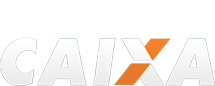
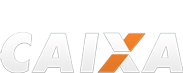
mudanas

diff --git a/garda/css/style.css b/garda/css/style.css
@@ -180,7 +180,7 @@ body{
 	padding-left: 0.7em;
 }
 .nav-logo-caixa{
-  padding-top: 2em;
+  padding-top: 1.95em;
   padding-bottom: 1em;
   padding-right: 0.7em;
 }
@@ -224,8 +224,8 @@ h1{
 }
 .content-financiamento-disc{
 	position:absolute; 
-	top:65%; 
-	left:20%; 
+	top:75%; 
+	left:15%; 
 	text-align: left;
 	font-weight: bold;
 
@@ -242,7 +242,7 @@ h1{
 	box-shadow: 0 1px #3e83b5;
 }
 .content-sidebar-link > span{
-  font-size: 1.044em;
+  font-size: 1.15em;
 	color: white;
 	text-decoration: none !important;
 }
@@ -354,6 +354,14 @@ h1{
   background: linear-gradient(to bottom, rgba(255,179,45,1) 0%,rgba(255,154,0,1) 100%);
   filter: progid:DXImageTransform.Microsoft.gradient( startColorstr='#ffb32d', endColorstr='#ff9a00',GradientType=0 );
 
+}
+
+@media (max-width: 1239px) { 
+.nav-btn-tel{display: none;}
+}
+
+@media (max-width: 767px) { 
+.nav-btn-tel{display: block;}
 }
 
 .nav-btn-title{
